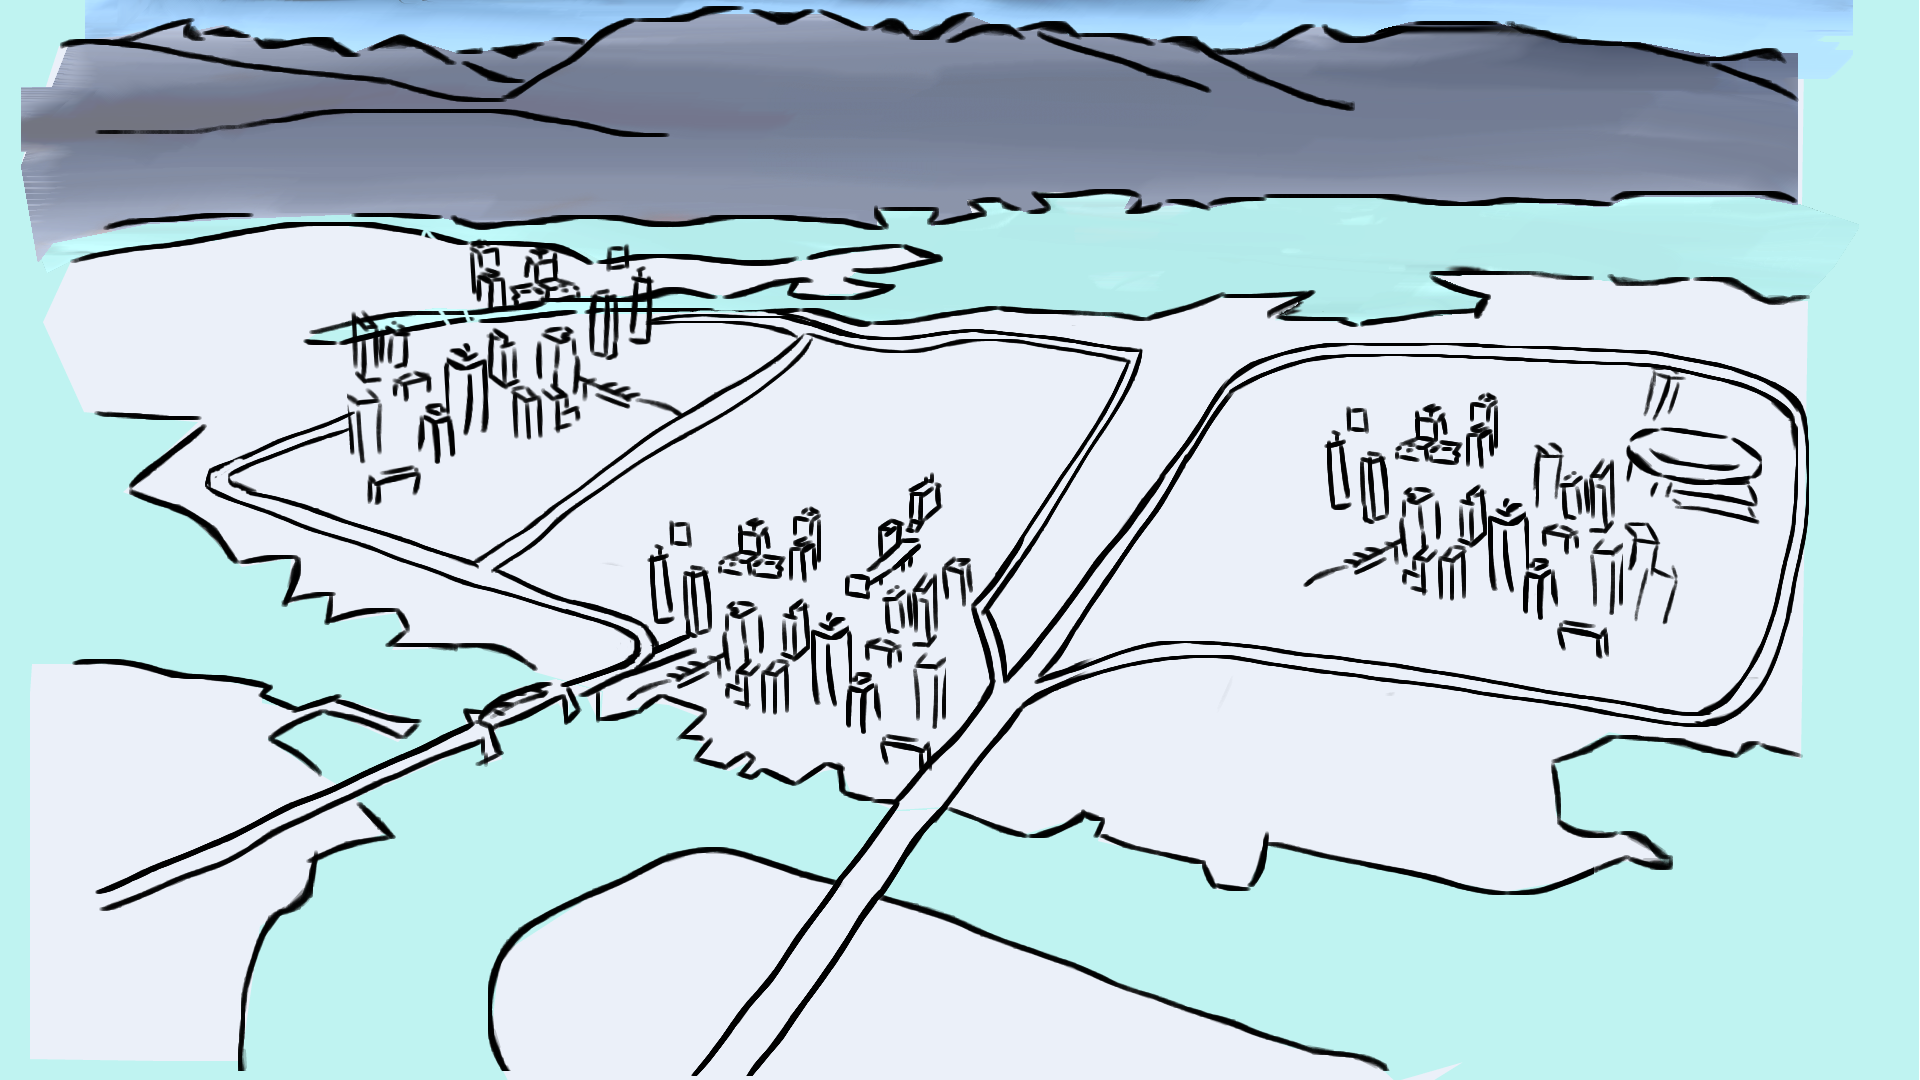
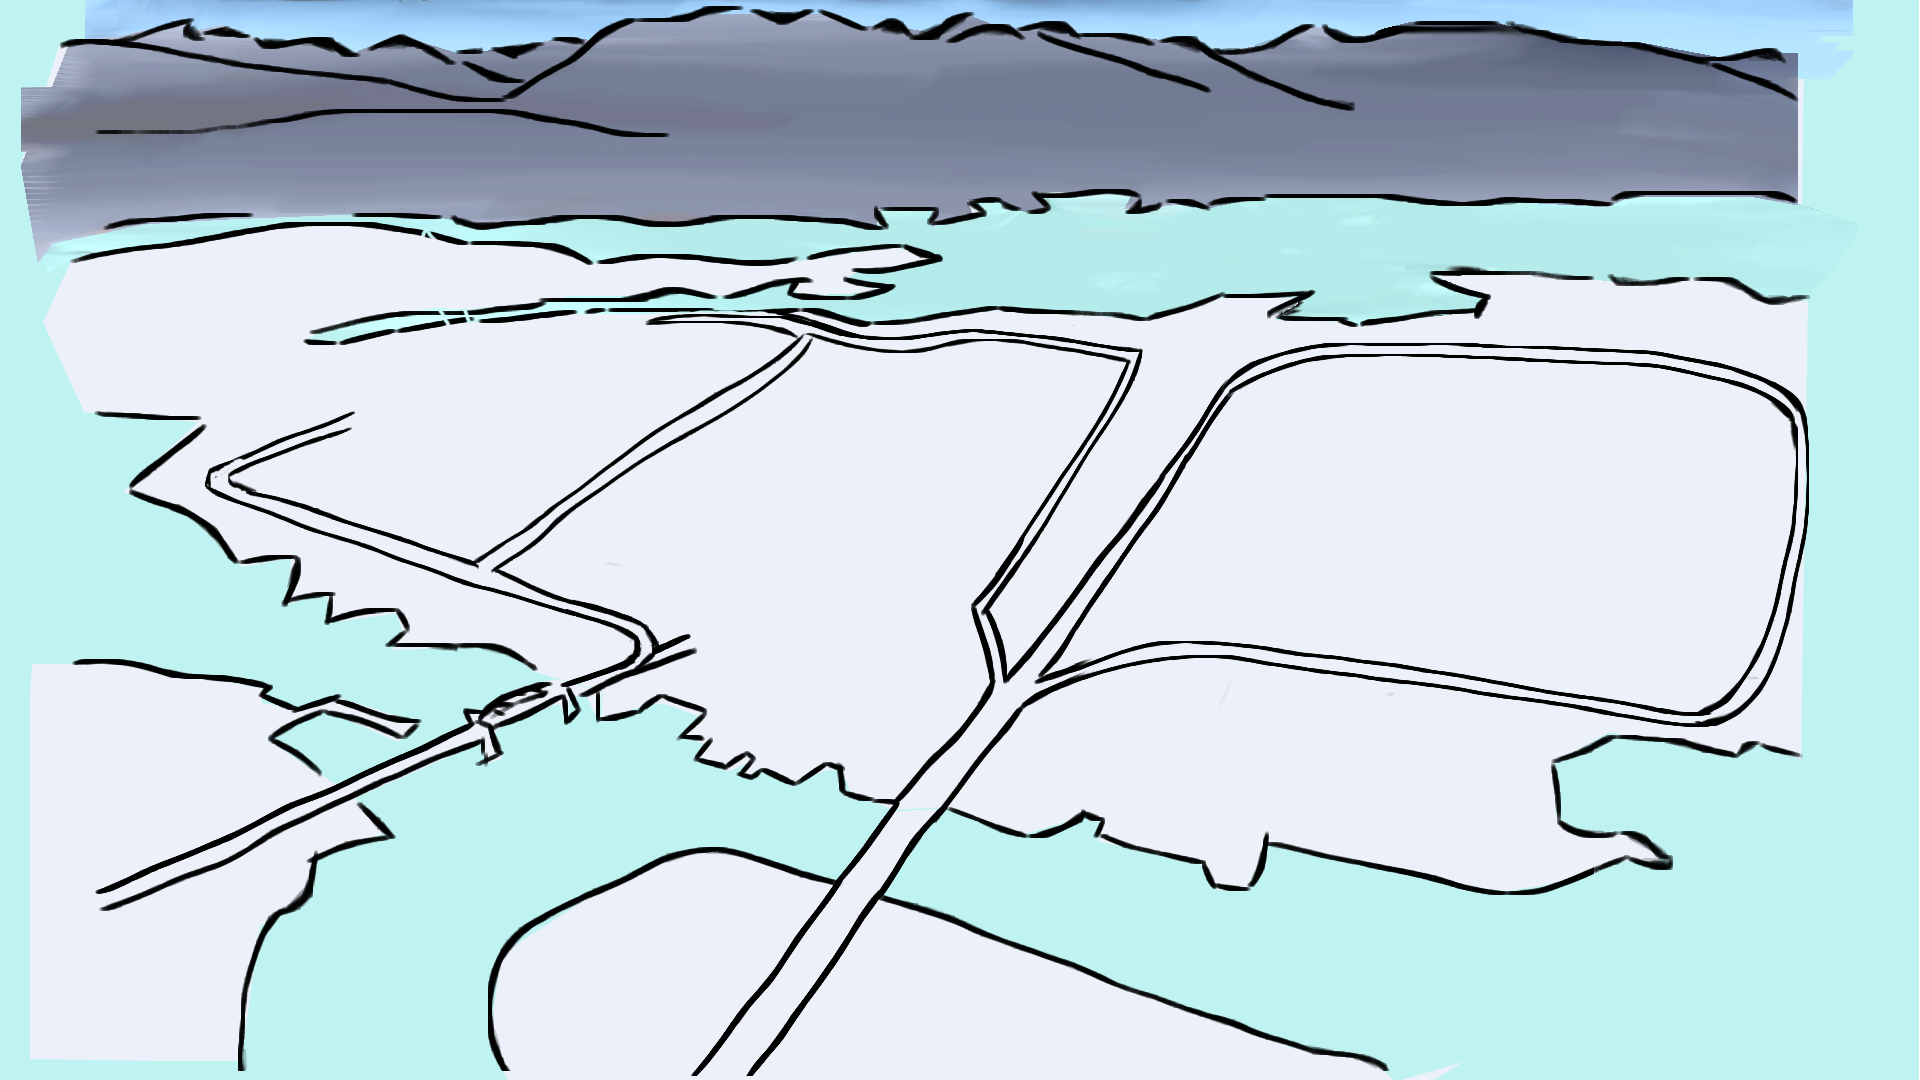
Added canvas to hold map, seperated city assets

Changed region(s): [[0.6875, 0.3361, 0.9375, 0.6111], [0.3438, 0.4278, 0.5312, 0.7028], [0.1562, 0.2139, 0.3438, 0.4583]]

diff --git a/script.js b/script.js
@@ -64,6 +64,64 @@ function validNameLength(s) {
     return s.length > 0 && s.length <= 20;
 }
 
+/* Canvas Setup */
+      var myGamePiece;
+      function startGame() {
+        myGameArea.start();
+        gameMap = new component(1920, 1080, "images/Map.png", 0, 0, "image");
+        district1 = new component(439, 267, "images/District1.png", 250, 235, "image");
+        district2 = new component(434, 311, "images/District2.png", 590, 450, "image");
+        district3 = new component(468, 369, "images/District3.png", 1300, 300, "image");
+      }
+      
+      var myGameArea = {
+        canvas : document.createElement("canvas"),
+        start : function() {
+          this.canvas.width = 1920;
+          this.canvas.height = 1080;
+          this.context = this.canvas.getContext("2d");
+          this.canvas.setAttribute("id", "map");
+          document.getElementById("gamediv").appendChild(this.canvas);
+          this.interval = setInterval(updateGameArea, 100);
+        },
+        clear : function() {
+          this.context.clearRect(0, 0, this.canvas.width, this.canvas.height);
+        }
+      }
+      
+      function component(width, height, color, x, y, type) {
+        this.type = type;
+        if (type == "image") {
+          this.image = new Image();
+          this.image.src = color;
+        } 
+        this.width = width;
+        this.height = height;
+        this.x = x;
+        this.y = y;
+        
+        this.update = function() {
+          ctx = myGameArea.context;
+          if (type == "image") {
+              ctx.drawImage(this.image, 
+                this.x, 
+                this.y, 
+                this.width, this.height);
+          } else {
+            ctx.fillStyle = color;
+            ctx.fillRect(this.x, this.y, this.width, this.height);
+          }
+        }
+        
+      }
+      
+      function updateGameArea() {
+        myGameArea.clear();
+        gameMap.update();
+        district1.update();
+        district2.update();
+        district3.update();
+      }
 /*
 function hasSpecial(s) {
     return /[ !@#$%^&*()_+\-=\[\]{};':"\\|,.<>\/?]/.test(s);

diff --git a/AquaSmart.html b/AquaSmart.html
@@ -7,7 +7,7 @@
     <script src="script.js" type="text/javascript"></script>
     <link type="text/css" rel=stylesheet href="AquaSmart.css">
     </head>
-  <body>
+  <body onload="startGame()">
     <div id="menu">
       <div id="logo">
         <img id="logosize" src="images/Aquasmart.png" alt="Aqua Smart"/>
@@ -53,7 +53,7 @@
       
     </div>
     <div id="gamediv">
-      <img id="map" src="images/Map.png" alt="map">
+      
     </div>
      
     <div id="bottomdiv">

diff --git a/AquaSmart.css b/AquaSmart.css
@@ -90,7 +90,7 @@ li > a:hover{
     margin-top: -100px;
 }
       
-#gamediv > img{        
+canvas {        
     display: block;
     width: 100%;
     height: 100%;
